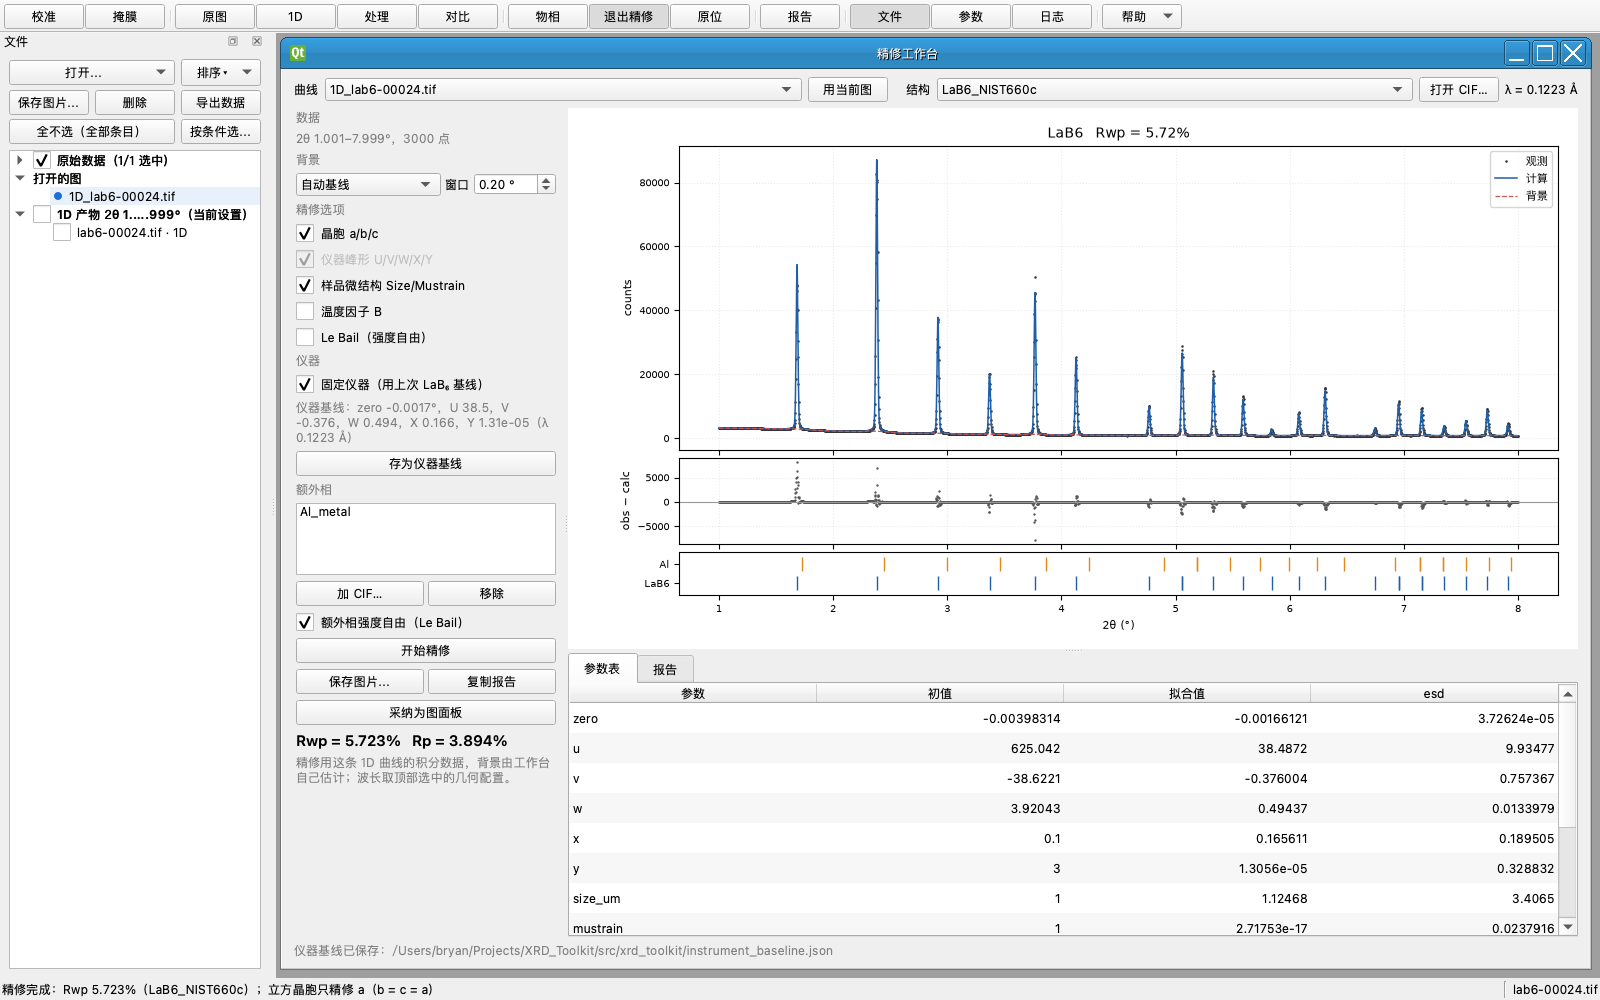
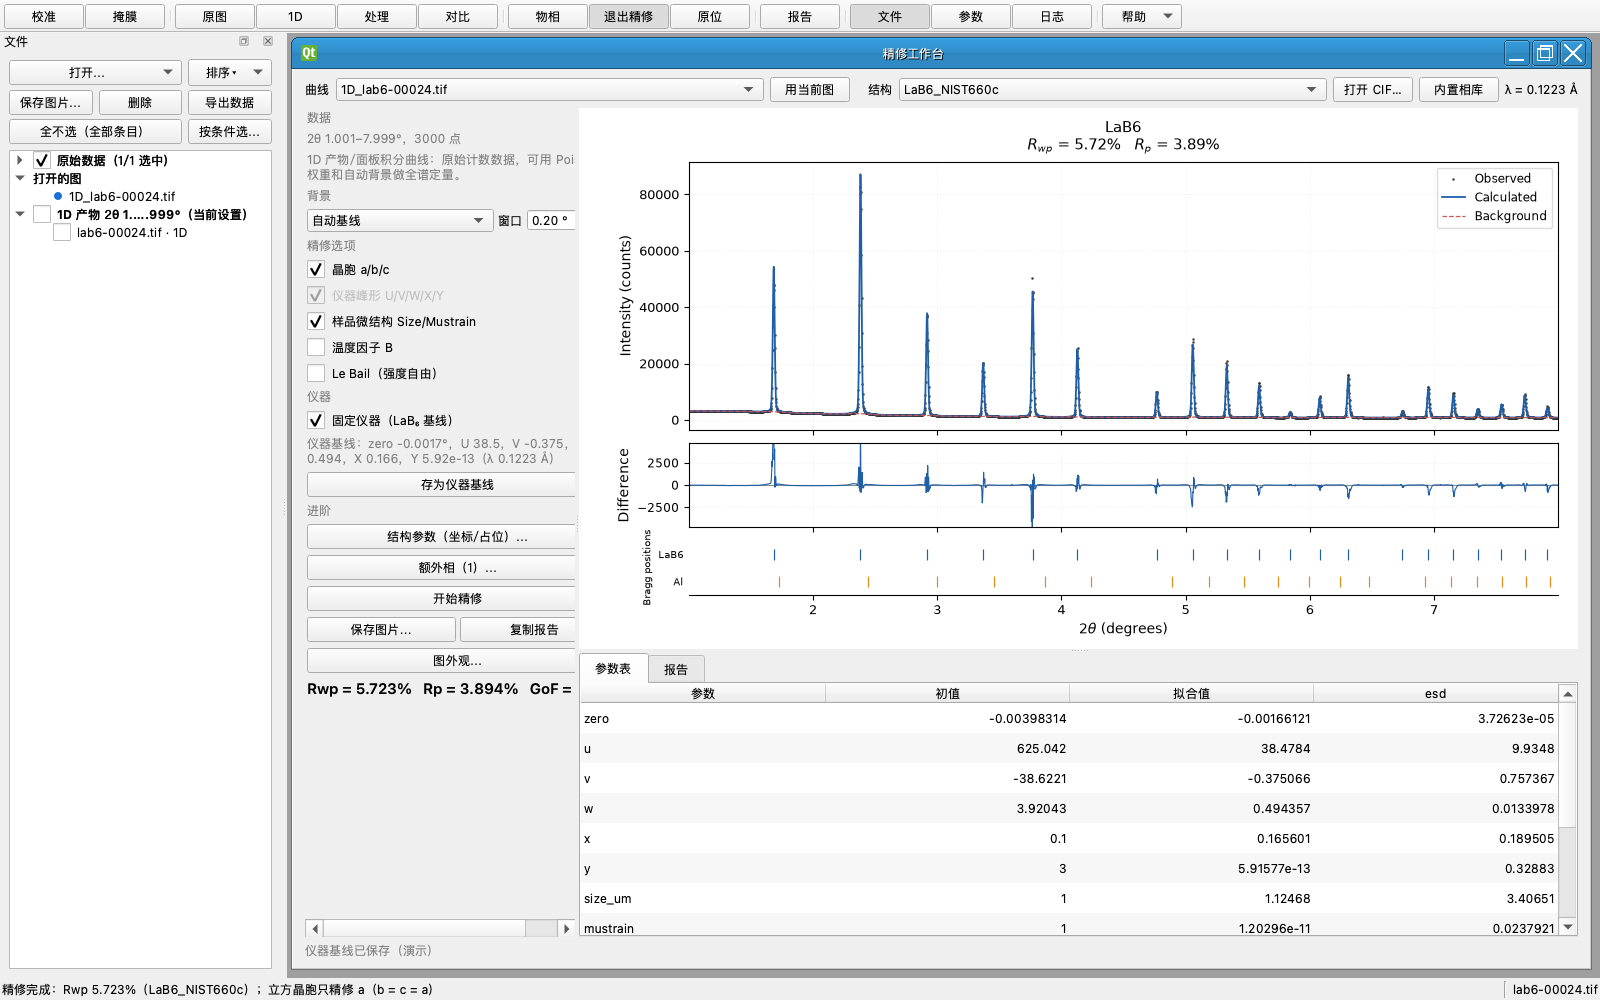
docs: refresh the workbench screenshots and title
The in-situ page is generic by default, so the old screenshot no
longer matched. Fill the generic phase table from the LMFP phases
(with the measured Al cell), isolate the demo instrument baseline, and
re-shoot the in-situ and refine workbenches. Drop the LMFP-only title
and tooltip from the in-situ sub-window.

diff --git a/scripts/make_gui_shots.py b/scripts/make_gui_shots.py
@@ -60,6 +60,13 @@ sys.path.insert(0, str(ROOT / "src"))
 _SCRATCH = Path(tempfile.mkdtemp(prefix="xrd_shots_"))
 os.environ.setdefault("XRD_STAGE_CACHE", str(_SCRATCH / "stage"))
 os.environ.setdefault("XRD_RECIPES", str(_SCRATCH / "recipes.json"))
+# 精修截图会点 [存为仪器基线]；别写进用户的真实基线文件（2026-11-19）。
+# 先复制一份开发机基线进临时目录，原位截图还能用上它。
+_BASELINE_SRC = ROOT / "src" / "xrd_toolkit" / "instrument_baseline.json"
+_BASELINE_DST = _SCRATCH / "instrument_baseline.json"
+if _BASELINE_SRC.is_file():
+    shutil.copyfile(_BASELINE_SRC, _BASELINE_DST)
+os.environ.setdefault("XRD_INSTRUMENT_BASELINE", str(_BASELINE_DST))
 
 # 批处理那张图的"导出"也走临时目录（2026-10-09：此前 demo 导出落进
 # 仓库 outputs/，每重拍一次留一个 导出_时间戳_原始/ 文件夹——翻了翻
@@ -803,6 +810,9 @@ def shot_refine(window) -> None:
              timeout_s=180)
     editor.save_instrument_btn.click()
     settle(400)
+    # 截图里别露出临时目录的基线路径（真实窗口仍显示完整路径）
+    if hasattr(editor, "_set_status"):
+        editor._set_status("仪器基线已保存（演示）")
     window.resize(1600, 1000)
     settle(400)
     fit_dock(window, window.refine_dock)
@@ -836,7 +846,9 @@ def shot_phase(window) -> None:
 
 
 def shot_insitu(window) -> None:
-    """原位工作台：3 帧真数据的三相批量（表 + 趋势图）。"""
+    """原位工作台：通用相表 + 3 帧真数据（紧凑表 + 趋势图）。"""
+    from xrd_toolkit.simulation.phase_set import (
+        BatchPolicy, PhaseSet, REFERENCE, spec_from_path)
     frames_dir = _SCRATCH / "insitu_frames"
     frames_dir.mkdir(parents=True, exist_ok=True)
     for p in LMFP[:3]:
@@ -848,6 +860,29 @@ def shot_insitu(window) -> None:
     settle(300)
     _hide_side_docks(window)
     editor = window.insitu_editor
+    # 2026-11-19 起默认页是通用空表：截图用同一套 LMFP 相（含 Al
+    # 4.061 的有效晶胞）填进去，顺便展示通用相表/紧凑结果表。
+    rich = spec_from_path(
+        ROOT / "data" / "structures" / "LiMn0.6Fe0.4PO4_olivine.cif",
+        label="rich", display_name="富锂相", plot_name="Li-rich phase")
+    poor = spec_from_path(
+        ROOT / "data" / "structures"
+        / "Mn0.6Fe0.4PO4_heterosite_rich_axis.cif",
+        label="poor", display_name="贫锂相", plot_name="Li-poor phase")
+    al = spec_from_path(
+        ROOT / "data" / "phase_library" / "Al_fcc.cif", label="Al_fcc",
+        display_name="Al 参考相", plot_name="Al reference",
+        role=REFERENCE, cell_free=False, intensity="lebail",
+        include_in_fraction=False)
+    al.cell0 = (4.061, 4.061, 4.061)
+    editor._apply_phase_set(PhaseSet(
+        name="LMFP 通用相表", phases=[rich, poor, al],
+        policy=BatchPolicy.generic()))
+    mask = ROOT / "outputs" / "masks" / "lmfp1_lab6_mask.npy"
+    editor.mask_path = mask if mask.is_file() else None
+    editor._refresh_mask_label()
+    editor._data_dir_set = True
+    editor._use_checked = False
     editor.data_dir = frames_dir
     editor.outdir = _SCRATCH / "insitu_out"
     editor.limit.setValue(3)

diff --git a/src/xrd_toolkit/gui/app.py b/src/xrd_toolkit/gui/app.py
@@ -872,8 +872,8 @@ def _on_phase_mode(window: QMainWindow, on: bool) -> None:
         _exit_phase_mode(window)
 
 
-_INSITU_TIP = ("原位工作台（LMFP 三相·方案）：富锂 / 贫锂 / Al "
-               "批量精修，逐帧继承种子，结果表 + 趋势图")
+_INSITU_TIP = ("原位工作台（通用多相·方案）：任意相批量精修，"
+               "逐帧继承种子，结果表 + 趋势图")
 
 
 def _open_insitu_workbench(window: QMainWindow) -> None:
@@ -889,7 +889,7 @@ def _open_insitu_workbench(window: QMainWindow) -> None:
         dock.setWidget(window.insitu_editor)
         window.mdi.addSubWindow(dock)
         window.insitu_dock = dock
-        dock.setWindowTitle("原位工作台（LMFP 三相）")
+        dock.setWindowTitle("原位工作台（通用多相）")
         area = window.mdi.viewport().size()
         dock.resize(max(720, area.width() - 40),
                     max(520, area.height() - 40))
